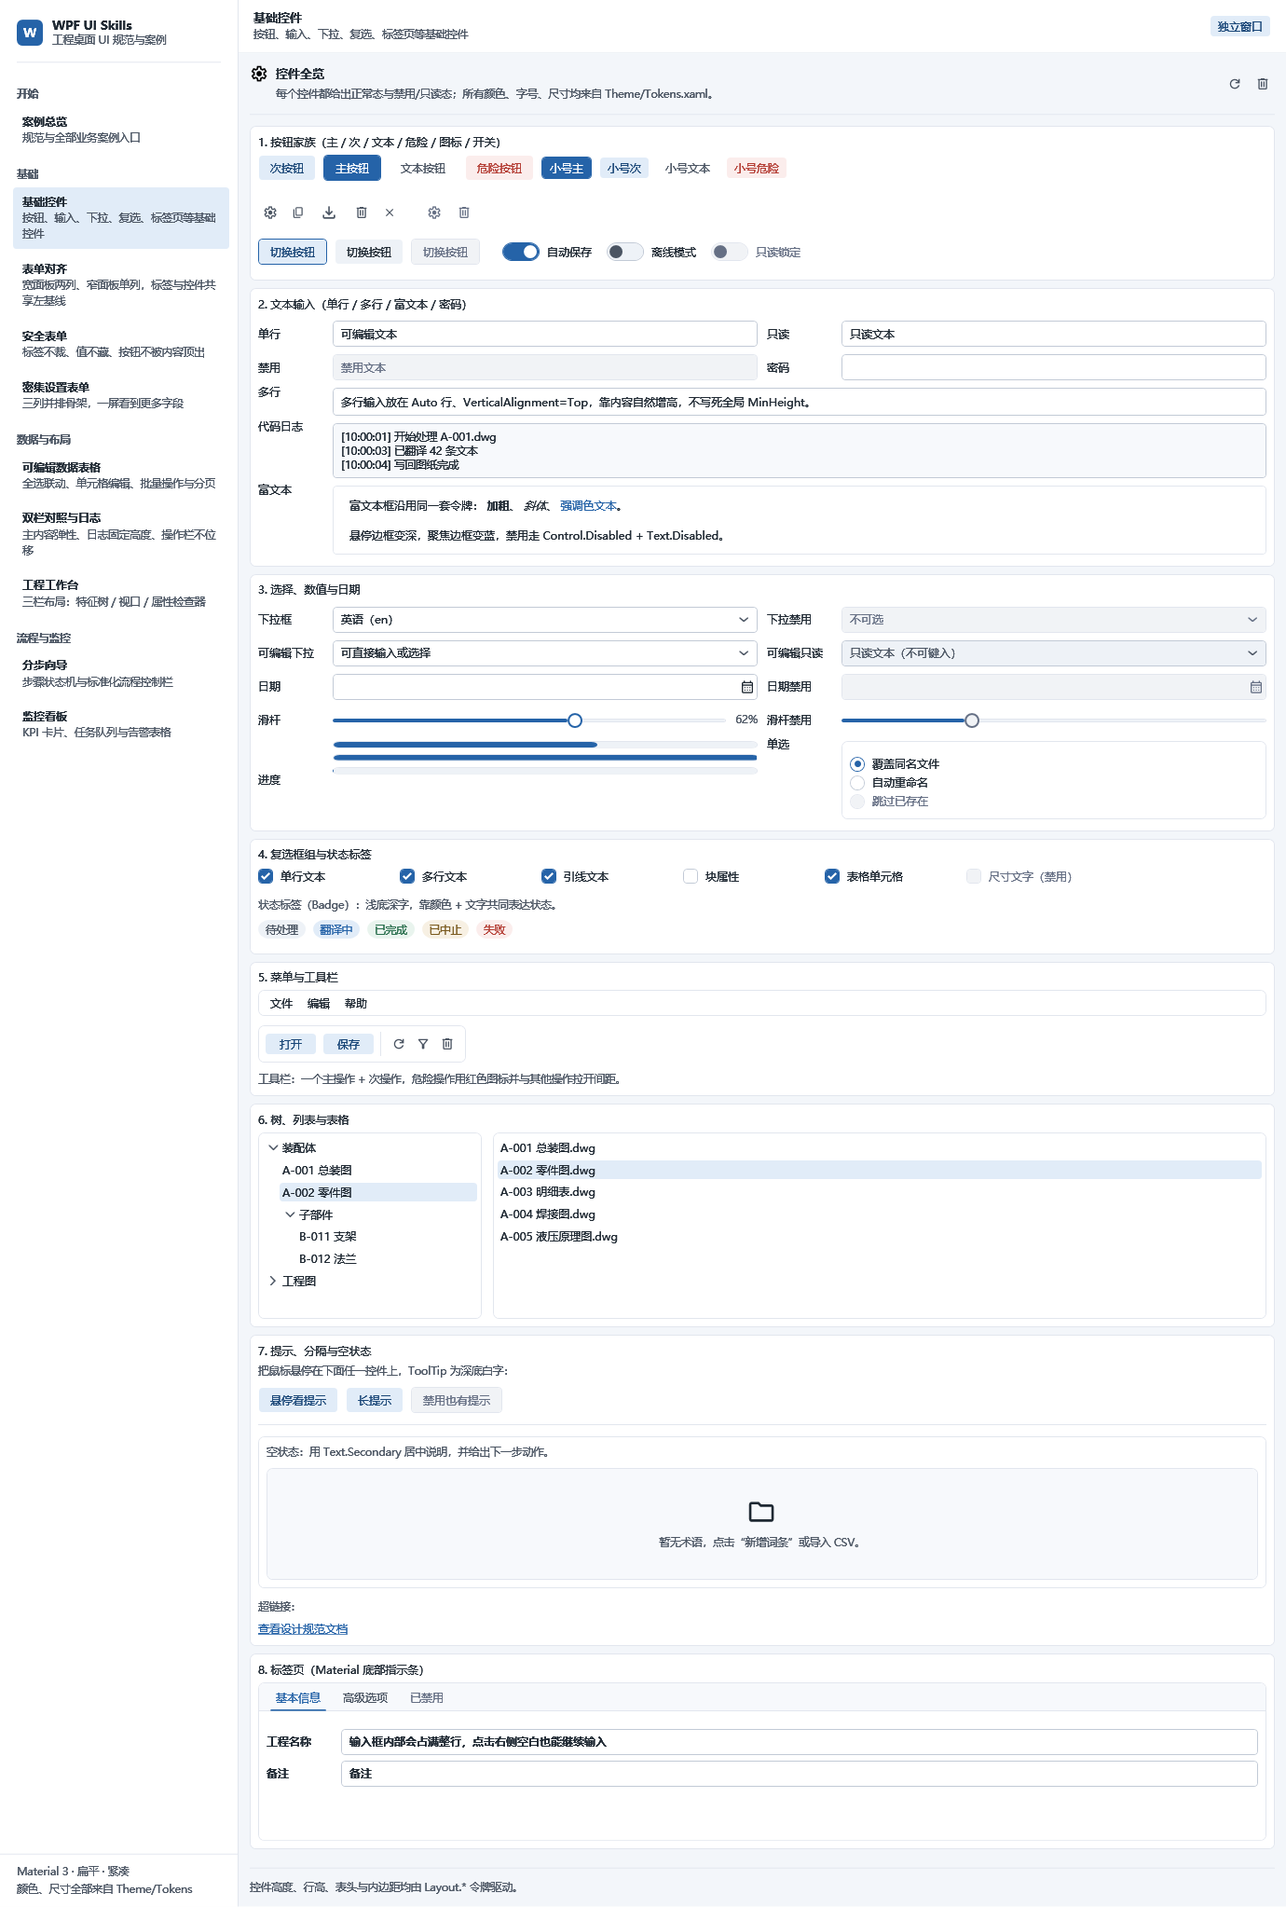
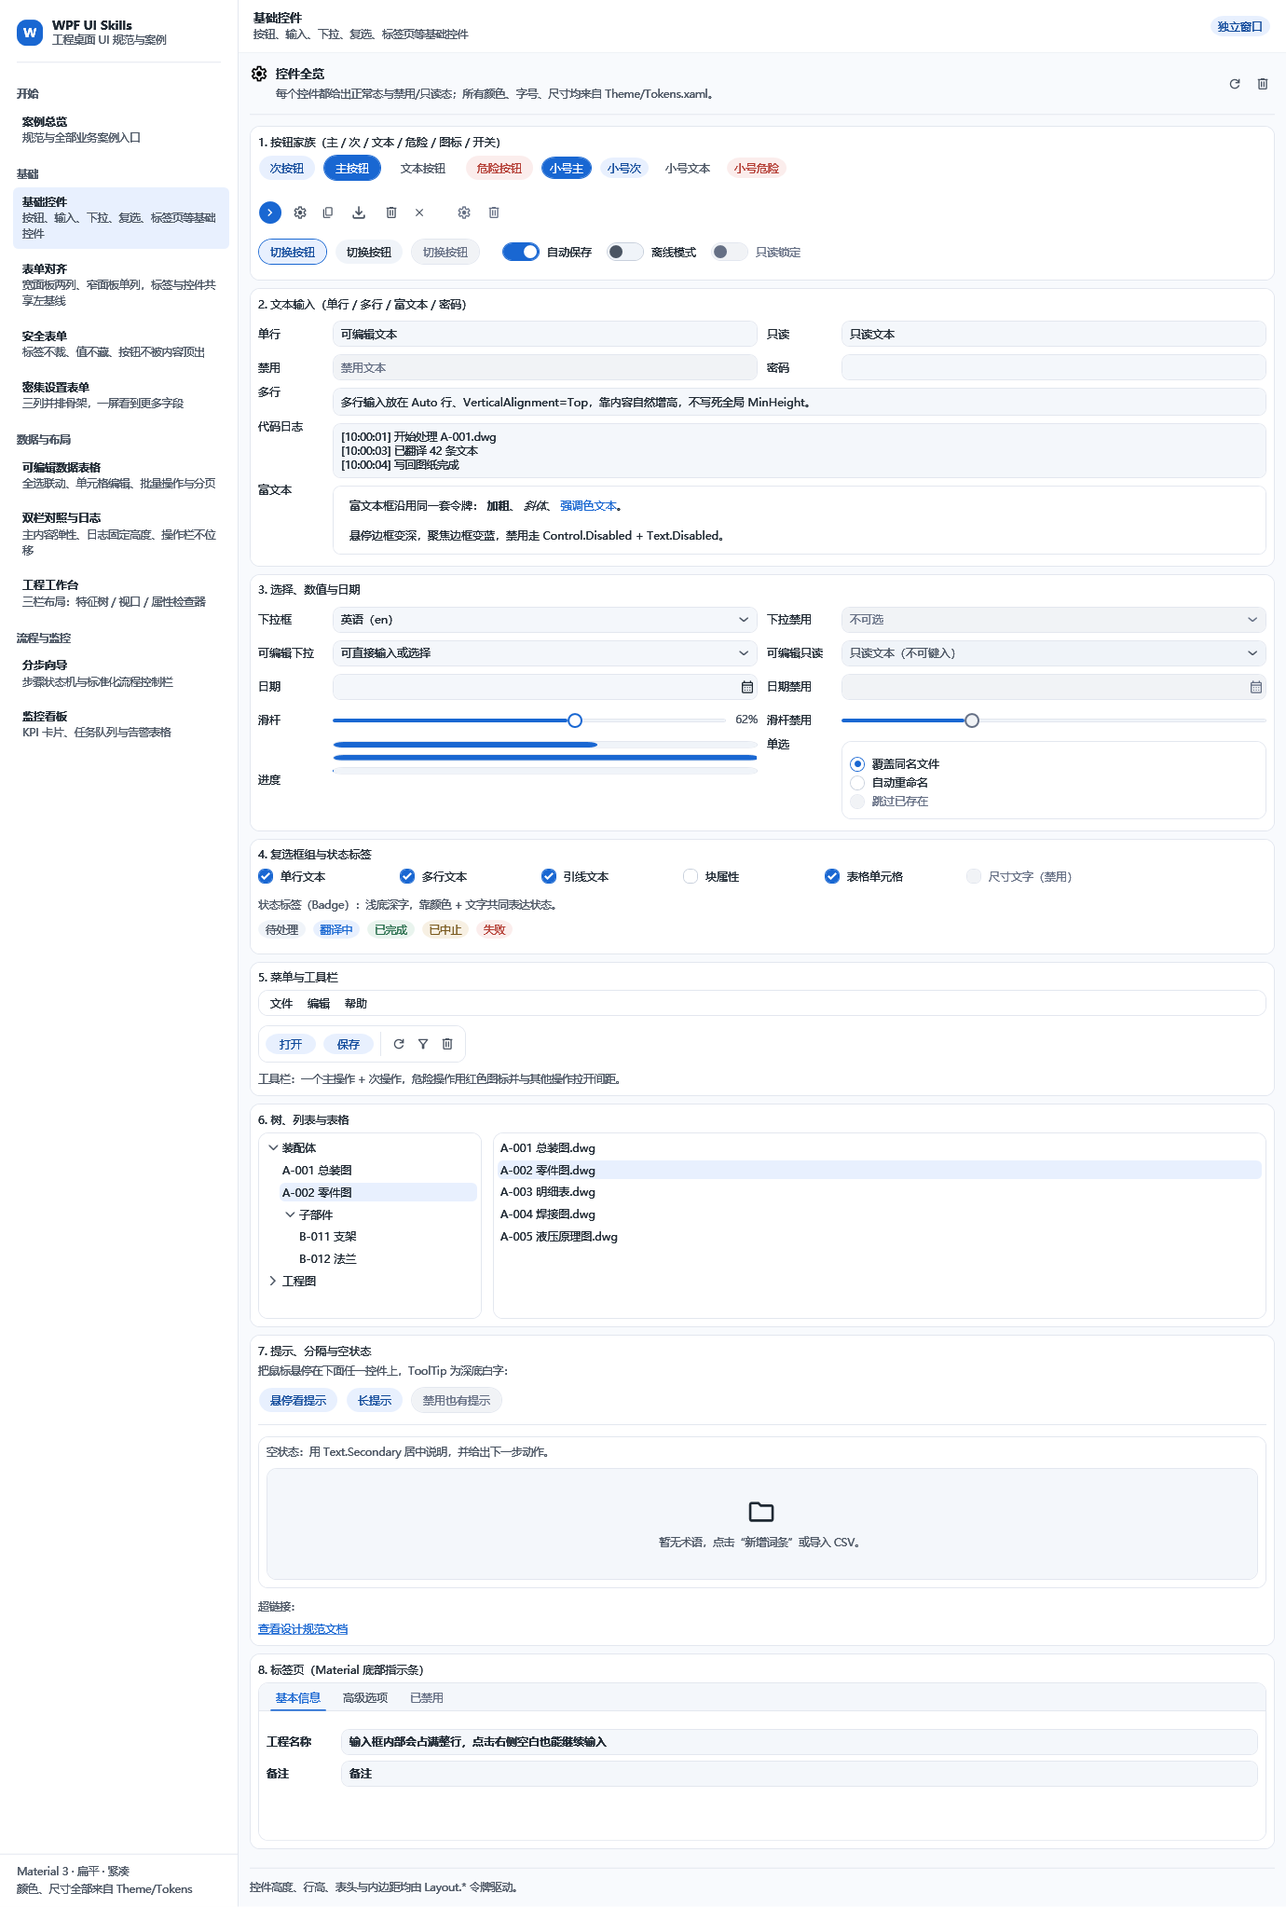
style(theme): upgrade to Material 3 Expressive pill buttons, tonal inputs and Google Blue palette

diff --git a/Theme/Controls.xaml b/Theme/Controls.xaml
@@ -62,7 +62,7 @@
                 Background="{TemplateBinding Background}"
                 BorderBrush="{TemplateBinding BorderBrush}"
                 BorderThickness="{TemplateBinding BorderThickness}"
-                CornerRadius="{StaticResource Radius.Small}"
+                CornerRadius="{StaticResource Radius.Pill}"
                 SnapsToDevicePixels="True">
             <ContentPresenter Margin="{TemplateBinding Padding}"
                               HorizontalAlignment="{TemplateBinding HorizontalContentAlignment}"
@@ -121,14 +121,14 @@
                 Background="{TemplateBinding Background}"
                 BorderBrush="{TemplateBinding BorderBrush}"
                 BorderThickness="{TemplateBinding BorderThickness}"
-                CornerRadius="{StaticResource Radius.Small}"
+                CornerRadius="{StaticResource Radius.Pill}"
                 SnapsToDevicePixels="True">
             <Grid>
                 <Border x:Name="FocusRing"
                         Margin="2"
                         BorderBrush="{StaticResource Brush.OnAccent}"
                         BorderThickness="1"
-                        CornerRadius="3"
+                        CornerRadius="12"
                         Visibility="Collapsed"
                         IsHitTestVisible="False" />
                 <ContentPresenter Margin="{TemplateBinding Padding}"
@@ -299,6 +299,7 @@
                 <Setter TargetName="Bd" Property="BorderBrush" Value="{StaticResource Brush.Accent}" />
             </Trigger>
             <Trigger Property="IsKeyboardFocusWithin" Value="True">
+                <Setter TargetName="Bd" Property="Background" Value="{StaticResource Brush.Surface}" />
                 <Setter TargetName="Bd" Property="BorderBrush" Value="{StaticResource Brush.Focus}" />
             </Trigger>
             <DataTrigger Binding="{Binding IsReadOnly, RelativeSource={RelativeSource TemplatedParent}}" Value="True">
@@ -317,8 +318,8 @@
         <Setter Property="FontFamily" Value="{StaticResource Font.Ui}" />
         <Setter Property="FontSize" Value="{StaticResource FontSize.Body}" />
         <Setter Property="Foreground" Value="{StaticResource Brush.Text.Primary}" />
-        <Setter Property="Background" Value="{StaticResource Brush.Surface}" />
-        <Setter Property="BorderBrush" Value="{StaticResource Brush.Border.Control}" />
+        <Setter Property="Background" Value="{StaticResource Brush.SurfaceSunken}" />
+        <Setter Property="BorderBrush" Value="{StaticResource Brush.Border}" />
         <Setter Property="BorderThickness" Value="1" />
         <Setter Property="Height" Value="{DynamicResource Layout.ControlHeight}" />
         <Setter Property="MinHeight" Value="0" />
@@ -394,6 +395,7 @@
                 <Setter TargetName="Bd" Property="BorderBrush" Value="{StaticResource Brush.Accent}" />
             </Trigger>
             <Trigger Property="IsKeyboardFocusWithin" Value="True">
+                <Setter TargetName="Bd" Property="Background" Value="{StaticResource Brush.Surface}" />
                 <Setter TargetName="Bd" Property="BorderBrush" Value="{StaticResource Brush.Focus}" />
             </Trigger>
             <Trigger Property="IsEnabled" Value="False">
@@ -408,8 +410,8 @@
         <Setter Property="FontFamily" Value="{StaticResource Font.Ui}" />
         <Setter Property="FontSize" Value="{StaticResource FontSize.Body}" />
         <Setter Property="Foreground" Value="{StaticResource Brush.Text.Primary}" />
-        <Setter Property="Background" Value="{StaticResource Brush.Surface}" />
-        <Setter Property="BorderBrush" Value="{StaticResource Brush.Border.Control}" />
+        <Setter Property="Background" Value="{StaticResource Brush.SurfaceSunken}" />
+        <Setter Property="BorderBrush" Value="{StaticResource Brush.Border}" />
         <Setter Property="BorderThickness" Value="1" />
         <Setter Property="Height" Value="{DynamicResource Layout.ControlHeight}" />
         <Setter Property="MinHeight" Value="0" />
@@ -494,8 +496,8 @@
         <Setter Property="FontFamily" Value="{StaticResource Font.Ui}" />
         <Setter Property="FontSize" Value="{StaticResource FontSize.Body}" />
         <Setter Property="Foreground" Value="{StaticResource Brush.Text.Primary}" />
-        <Setter Property="Background" Value="{StaticResource Brush.Surface}" />
-        <Setter Property="BorderBrush" Value="{StaticResource Brush.Border.Control}" />
+        <Setter Property="Background" Value="{StaticResource Brush.SurfaceSunken}" />
+        <Setter Property="BorderBrush" Value="{StaticResource Brush.Border}" />
         <Setter Property="BorderThickness" Value="1" />
         <Setter Property="Height" Value="{DynamicResource Layout.ControlHeight}" />
         <Setter Property="MinHeight" Value="0" />
@@ -910,7 +912,7 @@
                                     <ControlTemplate TargetType="{x:Type ToggleButton}">
                                         <Border x:Name="HeaderBorder"
                                                 Background="{TemplateBinding Background}"
-                                                CornerRadius="5"
+                                                CornerRadius="9"
                                                 Padding="{DynamicResource Layout.ExpanderHeaderPadding}">
                                             <Grid>
                                                 <Grid.ColumnDefinitions>
@@ -939,7 +941,7 @@
                                         </Border>
                                         <ControlTemplate.Triggers>
                                             <Trigger Property="IsChecked" Value="True">
-                                                <Setter TargetName="HeaderBorder" Property="CornerRadius" Value="5,5,0,0" />
+                                                <Setter TargetName="HeaderBorder" Property="CornerRadius" Value="9,9,0,0" />
                                                 <Setter TargetName="Chevron" Property="RenderTransform">
                                                     <Setter.Value>
                                                         <RotateTransform Angle="90" />
@@ -1003,7 +1005,7 @@
                             <Border x:Name="HeaderContainer"
                                     DockPanel.Dock="Top"
                                     Background="{StaticResource Brush.SurfaceSunken}"
-                                    CornerRadius="5,5,0,0">
+                                    CornerRadius="9,9,0,0">
                                 <Grid>
                                 <Border x:Name="BaselineBorder"
                                         VerticalAlignment="Bottom"
@@ -1025,14 +1027,14 @@
                     </Border>
                     <ControlTemplate.Triggers>
                         <Trigger Property="TabStripPlacement" Value="Bottom">
-                            <Setter TargetName="HeaderContainer" Property="CornerRadius" Value="0,0,5,5" />
+                            <Setter TargetName="HeaderContainer" Property="CornerRadius" Value="0,0,9,9" />
                             <Setter TargetName="HeaderContainer" Property="DockPanel.Dock" Value="Bottom" />
                             <Setter TargetName="BaselineBorder" Property="VerticalAlignment" Value="Top" />
                             <Setter TargetName="BaselineBorder" Property="BorderThickness" Value="0,1,0,0" />
                             <Setter TargetName="HeaderPanel" Property="Margin" Value="6,0,6,4" />
                         </Trigger>
                         <Trigger Property="TabStripPlacement" Value="Left">
-                            <Setter TargetName="HeaderContainer" Property="CornerRadius" Value="5,0,0,5" />
+                            <Setter TargetName="HeaderContainer" Property="CornerRadius" Value="9,0,0,9" />
                             <Setter TargetName="HeaderContainer" Property="DockPanel.Dock" Value="Left" />
                             <Setter TargetName="BaselineBorder" Property="VerticalAlignment" Value="Stretch" />
                             <Setter TargetName="BaselineBorder" Property="HorizontalAlignment" Value="Right" />
@@ -1040,7 +1042,7 @@
                             <Setter TargetName="HeaderPanel" Property="Margin" Value="4,6,0,6" />
                         </Trigger>
                         <Trigger Property="TabStripPlacement" Value="Right">
-                            <Setter TargetName="HeaderContainer" Property="CornerRadius" Value="0,5,5,0" />
+                            <Setter TargetName="HeaderContainer" Property="CornerRadius" Value="0,9,9,0" />
                             <Setter TargetName="HeaderContainer" Property="DockPanel.Dock" Value="Right" />
                             <Setter TargetName="BaselineBorder" Property="VerticalAlignment" Value="Stretch" />
                             <Setter TargetName="BaselineBorder" Property="HorizontalAlignment" Value="Left" />

diff --git a/Theme/Tokens.xaml b/Theme/Tokens.xaml
@@ -15,25 +15,25 @@
           Radius.* = 圆角
     -->
 
-    <Color x:Key="Color.WindowBackground">#FFF3F6FA</Color>
+    <Color x:Key="Color.WindowBackground">#FFF8FAFD</Color>
     <Color x:Key="Color.Surface">#FFFFFFFF</Color>
-    <Color x:Key="Color.SurfaceAlt">#FFEEF2F7</Color>
-    <Color x:Key="Color.SurfaceSunken">#FFF7F9FC</Color>
+    <Color x:Key="Color.SurfaceAlt">#FFF0F4F9</Color>
+    <Color x:Key="Color.SurfaceSunken">#FFF4F7FB</Color>
 
-    <Color x:Key="Color.Border">#FFE2E6EE</Color>
-    <Color x:Key="Color.BorderStrong">#FFD3D9E3</Color>
-    <Color x:Key="Color.BorderControl">#FFC2CAD6</Color>
-    <Color x:Key="Color.BorderTab">#FFE2E6EE</Color>
+    <Color x:Key="Color.Border">#FFE3E7EF</Color>
+    <Color x:Key="Color.BorderStrong">#FFD4DAE5</Color>
+    <Color x:Key="Color.BorderControl">#FFC8D0DC</Color>
+    <Color x:Key="Color.BorderTab">#FFE3E7EF</Color>
 
     <Color x:Key="Color.TextPrimary">#FF1F2933</Color>
     <Color x:Key="Color.TextSecondary">#FF4B5563</Color>
     <Color x:Key="Color.TextDisabled">#FF667085</Color>
 
-    <Color x:Key="Color.Accent">#FF2563A8</Color>
-    <Color x:Key="Color.AccentHover">#FF1E5490</Color>
-    <Color x:Key="Color.AccentPressed">#FF1A4778</Color>
-    <Color x:Key="Color.AccentSubtle">#FFE1ECF8</Color>
-    <Color x:Key="Color.AccentSubtleHover">#FFD3E3F5</Color>
+    <Color x:Key="Color.Accent">#FF1967D2</Color>
+    <Color x:Key="Color.AccentHover">#FF1558B6</Color>
+    <Color x:Key="Color.AccentPressed">#FF124B9C</Color>
+    <Color x:Key="Color.AccentSubtle">#FFE8F0FE</Color>
+    <Color x:Key="Color.AccentSubtleHover">#FFD2E3FC</Color>
     <Color x:Key="Color.OnAccent">#FFFFFFFF</Color>
 
     <Color x:Key="Color.Danger">#FFB43B32</Color>
@@ -48,14 +48,14 @@
     <Color x:Key="Color.Warning">#FF7A5A1E</Color>
     <Color x:Key="Color.WarningSubtle">#FFF7F0E3</Color>
 
-    <Color x:Key="Color.ControlHover">#FFEEF2F7</Color>
-    <Color x:Key="Color.ControlPressed">#FFE1E6ED</Color>
+    <Color x:Key="Color.ControlHover">#FFF1F4F9</Color>
+    <Color x:Key="Color.ControlPressed">#FFE4E9F1</Color>
     <Color x:Key="Color.ControlDisabled">#FFF1F3F6</Color>
 
-    <Color x:Key="Color.Selection">#FFE1ECF8</Color>
-    <Color x:Key="Color.SelectionHover">#FFD3E3F5</Color>
+    <Color x:Key="Color.Selection">#FFE8F0FE</Color>
+    <Color x:Key="Color.SelectionHover">#FFD2E3FC</Color>
 
-    <Color x:Key="Color.Focus">#FF2563A8</Color>
+    <Color x:Key="Color.Focus">#FF1967D2</Color>
 
     <Color x:Key="Color.TooltipBackground">#FF1F2933</Color>
     <Color x:Key="Color.TooltipForeground">#FFFFFFFF</Color>
@@ -63,15 +63,15 @@
     <Color x:Key="Color.ScrollThumb">#FFC3CAD3</Color>
     <Color x:Key="Color.ScrollThumbHover">#FFA7B0BB</Color>
 
-    <Color x:Key="Color.CardSystem">#FFEEF2F7</Color>
-    <Color x:Key="Color.CardUser">#FFE1ECF8</Color>
+    <Color x:Key="Color.CardSystem">#FFF0F4F9</Color>
+    <Color x:Key="Color.CardUser">#FFE8F0FE</Color>
     <Color x:Key="Color.CardAi">#FFFFFFFF</Color>
     <Color x:Key="Color.CardError">#FFFBEDEC</Color>
 
-    <Color x:Key="Color.BadgeIdleBackground">#FFEEF2F7</Color>
+    <Color x:Key="Color.BadgeIdleBackground">#FFF0F4F9</Color>
     <Color x:Key="Color.BadgeIdleForeground">#FF4B5563</Color>
-    <Color x:Key="Color.BadgeActiveBackground">#FFE1ECF8</Color>
-    <Color x:Key="Color.BadgeActiveForeground">#FF2563A8</Color>
+    <Color x:Key="Color.BadgeActiveBackground">#FFE8F0FE</Color>
+    <Color x:Key="Color.BadgeActiveForeground">#FF1967D2</Color>
     <Color x:Key="Color.BadgeDoneBackground">#FFE9F4EE</Color>
     <Color x:Key="Color.BadgeDoneForeground">#FF2A704E</Color>
     <Color x:Key="Color.BadgeStoppedBackground">#FFF7F0E3</Color>
@@ -224,10 +224,10 @@
     <sys:Double x:Key="Layout.ToolBarHeight">40</sys:Double>
     <sys:Double x:Key="Layout.ProgressBarHeight">4</sys:Double>
 
-    <CornerRadius x:Key="Radius.Small">4</CornerRadius>
-    <CornerRadius x:Key="Radius.Card">6</CornerRadius>
-    <CornerRadius x:Key="Radius.Input">4</CornerRadius>
-    <CornerRadius x:Key="Radius.Pill">12</CornerRadius>
+    <CornerRadius x:Key="Radius.Small">6</CornerRadius>
+    <CornerRadius x:Key="Radius.Card">10</CornerRadius>
+    <CornerRadius x:Key="Radius.Input">8</CornerRadius>
+    <CornerRadius x:Key="Radius.Pill">14</CornerRadius>
 
     <Style x:Key="Text.Title" TargetType="{x:Type TextBlock}">
         <Setter Property="FontFamily" Value="{StaticResource Font.Ui}" />

diff --git a/Theme/Icons.xaml b/Theme/Icons.xaml
@@ -217,7 +217,7 @@
                 Background="{TemplateBinding Background}"
                 BorderBrush="{TemplateBinding BorderBrush}"
                 BorderThickness="{TemplateBinding BorderThickness}"
-                CornerRadius="{StaticResource Radius.Small}"
+                CornerRadius="16"
                 SnapsToDevicePixels="True">
             <ContentPresenter Margin="{TemplateBinding Padding}"
                               HorizontalAlignment="Center"
@@ -308,7 +308,7 @@
                 Background="{TemplateBinding Background}"
                 BorderBrush="{TemplateBinding BorderBrush}"
                 BorderThickness="{TemplateBinding BorderThickness}"
-                CornerRadius="{StaticResource Radius.Small}"
+                CornerRadius="16"
                 SnapsToDevicePixels="True">
             <ContentPresenter Margin="{TemplateBinding Padding}"
                               HorizontalAlignment="Center"
@@ -342,6 +342,45 @@
 
     <Style x:Key="Button.Icon.Danger.Small" TargetType="{x:Type Button}" BasedOn="{StaticResource Button.Icon.Small}">
         <Setter Property="Template" Value="{StaticResource IconButton.Danger.Small.Template}" />
+    </Style>
+
+
+    <Style x:Key="Button.Icon.Primary" TargetType="{x:Type Button}" BasedOn="{StaticResource Button.Icon}">
+        <Setter Property="Background" Value="{StaticResource Brush.Accent}" />
+        <Setter Property="Foreground" Value="{StaticResource Brush.OnAccent}" />
+        <Setter Property="Template">
+            <Setter.Value>
+                <ControlTemplate TargetType="{x:Type Button}">
+                    <Border x:Name="Bd"
+                            Background="{TemplateBinding Background}"
+                            BorderBrush="Transparent"
+                            BorderThickness="1"
+                            CornerRadius="16"
+                            SnapsToDevicePixels="True">
+                        <ContentPresenter Margin="{TemplateBinding Padding}"
+                                          HorizontalAlignment="Center"
+                                          VerticalAlignment="Center"
+                                          TextElement.Foreground="{TemplateBinding Foreground}" />
+                    </Border>
+                    <ControlTemplate.Triggers>
+                        <Trigger Property="IsMouseOver" Value="True">
+                            <Setter TargetName="Bd" Property="Background" Value="{StaticResource Brush.Accent.Hover}" />
+                        </Trigger>
+                        <Trigger Property="IsPressed" Value="True">
+                            <Setter TargetName="Bd" Property="Background" Value="{StaticResource Brush.Accent.Pressed}" />
+                        </Trigger>
+                        <Trigger Property="IsKeyboardFocused" Value="True">
+                            <Setter TargetName="Bd" Property="BorderBrush" Value="{StaticResource Brush.Accent.Pressed}" />
+                        </Trigger>
+                        <Trigger Property="IsEnabled" Value="False">
+                            <Setter TargetName="Bd" Property="Background" Value="{StaticResource Brush.Control.Disabled}" />
+                            <Setter Property="Foreground" Value="{StaticResource Brush.Text.Disabled}" />
+                            <Setter Property="Cursor" Value="Arrow" />
+                        </Trigger>
+                    </ControlTemplate.Triggers>
+                </ControlTemplate>
+            </Setter.Value>
+        </Setter>
     </Style>
 
 </ResourceDictionary>

diff --git a/Theme/Extras.xaml b/Theme/Extras.xaml
@@ -82,7 +82,7 @@
                 Background="{TemplateBinding Background}"
                 BorderBrush="{TemplateBinding BorderBrush}"
                 BorderThickness="{TemplateBinding BorderThickness}"
-                CornerRadius="{StaticResource Radius.Small}"
+                CornerRadius="{StaticResource Radius.Pill}"
                 SnapsToDevicePixels="True">
             <ContentPresenter Margin="{TemplateBinding Padding}"
                               HorizontalAlignment="{TemplateBinding HorizontalContentAlignment}"
@@ -588,8 +588,8 @@
         <Setter Property="FontFamily" Value="{StaticResource Font.Ui}" />
         <Setter Property="FontSize" Value="{StaticResource FontSize.Body}" />
         <Setter Property="Foreground" Value="{StaticResource Brush.Text.Primary}" />
-        <Setter Property="Background" Value="{StaticResource Brush.Surface}" />
-        <Setter Property="BorderBrush" Value="{StaticResource Brush.Border.Control}" />
+        <Setter Property="Background" Value="{StaticResource Brush.SurfaceSunken}" />
+        <Setter Property="BorderBrush" Value="{StaticResource Brush.Border}" />
         <Setter Property="BorderThickness" Value="1" />
         <Setter Property="Height" Value="{DynamicResource Layout.ControlHeight}" />
         <Setter Property="Padding" Value="0" />

diff --git a/preview/Views/ControlsGalleryView.xaml b/preview/Views/ControlsGalleryView.xaml
@@ -59,6 +59,9 @@
                                  WrapPanel 会忽略子元素的 VerticalAlignment，
                                  同一行的图标会高低错开。 -->
                             <StackPanel Orientation="Horizontal" Margin="0,0,0,12">
+                                <Button Style="{StaticResource Button.Icon.Primary}" ToolTip="主图标" Margin="0,0,6,0">
+                                    <Path Data="{StaticResource Icon.Geo.ChevronRight}" Style="{StaticResource Icon.Regular}" />
+                                </Button>
                                 <Button Style="{StaticResource Button.Icon}" ToolTip="设置" Margin="0,0,6,0">
                                     <Path Data="{StaticResource Icon.Geo.Settings}" Style="{StaticResource Icon.Regular}" />
                                 </Button>
